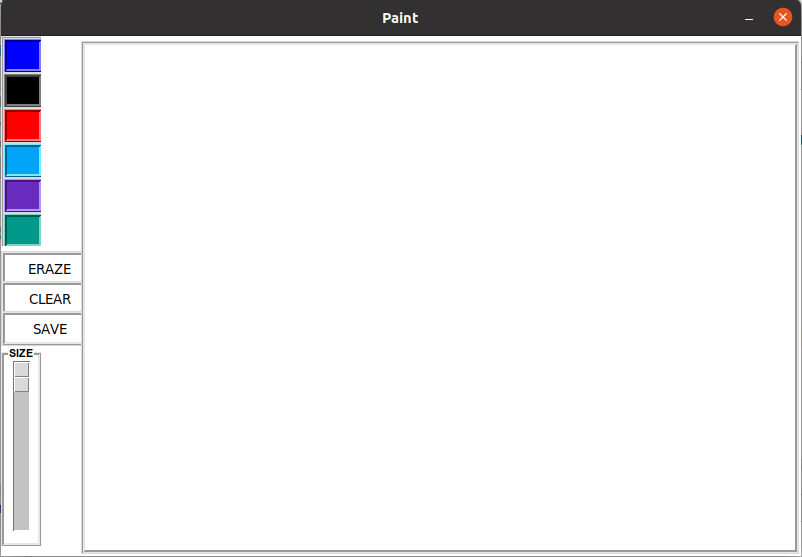
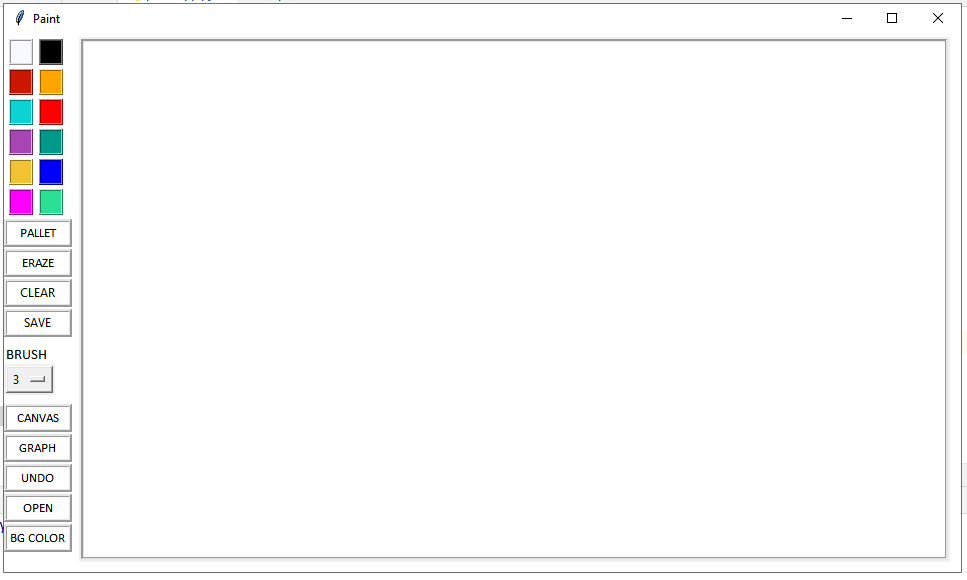
Add files via upload

Changed region(s): [[0.0, 0.0, 1.0, 1.0]]

diff --git a/paint_app.py b/paint_app.py
@@ -1,0 +1,234 @@
+import os
+from tkinter import *
+from tkinter import messagebox, colorchooser
+from tkinter.filedialog import asksaveasfilename,askopenfilename
+import pyscreenshot as ImageGrab
+from PIL import ImageTk,Image
+
+
+class Color_Button(Button):#Inherited custom made color button , with default command to change colour of pen
+    def __init__(self,color):
+        self.color=color
+        super().__init__(bg=color,relief=RIDGE,width=2,height=1,bd=2,command=self.on_click)
+    def on_click(self):
+        program.color_fg=self.color
+
+class main:
+    def __init__(self, master):
+        self.root = master
+        self.root.title("PAINT")
+        screen_width = root.winfo_screenwidth()
+        screen_height = root.winfo_screenheight()
+        self.root.geometry(f"{screen_width-int(screen_width*0.3)}x{screen_height-int(screen_height*0.3)}")
+        self.color_fg = 'black'  # Colour of pen
+        self.color_bg = 'white'  # Background colour
+        self.root.configure(background='white')
+
+        self.undo = open('undo.rec', 'w')
+
+
+        # making colour buttons
+        colors = ['#F8F8FF', '#cc1701','#0bd3d3','#a845b5', '#f1c232' , '#FF00FF']
+        i=5;j=5#For Location
+        for color in colors:
+            Color_Button(color).place(x=i,y=j)#Refer class Color_Button
+            j+=30
+        colors = [ 'black', '#ffa500','red' ,'#009888', 'blue','#2bdf94']
+        i=35;j=5
+        for color in colors:
+            Color_Button(color).place(x=i,y=j)
+            j+=30
+
+        # making other buttons and placing them in appropriate place
+        self.Pallet_For_Foreground = Button(self.root, text='PALLET', font=('calibri', 10), bd=3, bg='white', command=self.choose_color,width=8, relief=RIDGE)
+        self.Pallet_For_Foreground.place(x=0,y=185)
+
+
+        self.erazer_button = Button(self.root, text='ERAZE', font=('calibri', 10), bd=3, bg='white', command=self.eraze,width=8, relief=RIDGE)
+        self.erazer_button.place(x=0, y=215)
+
+        self.clear_button = Button(self.root, text='CLEAR', bd=3, bg='white', command=self.clear, width=8, relief=RIDGE)
+        self.clear_button.place(x=0, y=245)
+
+        self.save_button = Button(self.root, text='SAVE', bd=3, bg='white', command=self.save, width=8, relief=RIDGE)
+        self.save_button.place(x=0, y=275)
+
+        self.Brush_Text = Label(self.root, text='BRUSH', bd=0, bg='white', font=('calibri', 11))
+        self.Brush_Text.place(x=1, y=310)
+
+
+
+        self.options = StringVar(self.root)
+        self.options.set('3')#Default option
+        self.size_chooser = OptionMenu(self.root, self.options, *( str(x) for x in range(10)))
+        self.size_chooser.place(x=0, y=330)
+
+
+        self.change_canvas_button=Button(self.root,text='CANVAS',font=('calibri', 10), bd=3,width=8, bg='white',command=self.change_canvas, relief=RIDGE)
+        self.change_canvas_button.place(x=0, y=370)
+
+        self.graph_button =Button(self.root,text='GRAPH',font=('calibri', 10), bd=3,width=8, bg='white',command=self.graph, relief=RIDGE)
+        self.graph_button.place(x=0, y=400)
+
+        self.undo_button = Button(self.root, text='UNDO', font=('calibri', 10), bd=3,width=8, bg='white',command=self.undo_exec, relief=RIDGE)
+        self.undo_button.place(x=0, y=430)
+
+        self.open_button=Button(self.root,text="OPEN" ,font=('calibri', 10), bd=3,width=8, bg='white',command=self.open, relief=RIDGE)
+        self.open_button.place(x=0, y=460)
+
+
+        self.Background_Button = Button(self.root, text='BG COLOR', font=('calibri', 10),bd=3, bg='white', command=self.change_bg, width=8, relief=RIDGE)
+        self.Background_Button.place(x=0, y=490)
+
+        # making the canvas and making it recognise movements of the mouse
+
+        self.canvas = Canvas(self.root, bg='white', bd=3, relief=GROOVE, height=(screen_height-int(screen_height*0.33)), width=(screen_width-int(screen_width*0.37)))
+        self.canvas.place(x=75, y=3)
+
+        self.old_x = None
+        self.old_y = None
+        self.penwidth = 3
+        self.tag = 0
+        self.canvas.bind('<B1-Motion>', self.paint)  # drawing  line
+        self.canvas.bind('<ButtonRelease-1>', self.reset)
+
+
+    # All functions are defined below
+    def paint(self, e):
+        '''creates a canvas where you can paint'''
+
+        if self.old_x and self.old_y:
+
+            self.canvas.create_line(self.old_x, self.old_y, e.x, e.y,
+                                    width=self.options.get(),
+                                    fill=self.color_fg,
+                                    capstyle=ROUND,
+                                    smooth=True,
+                                    tag='my_tag' + str(self.tag))
+        self.old_x = e.x
+        self.old_y = e.y
+
+    def reset(self, e):
+        '''reseting or cleaning the canvas'''
+        self.old_x = None
+        self.old_y = None
+
+        self.canvas.create_oval(e.x, e.y, e.x, e.y,
+                                width=self.options.get(),
+                                outline=self.color_fg,
+                                fill=self.color_fg,
+                                tag='my_tag' + str(self.tag))
+        self.undo.write(f"self.canvas.delete('{'my_tag' + str(self.tag)}')\n")
+        self.tag += 1
+
+    def clear(self):
+        '''clears the canvas'''
+        self.canvas.delete(ALL)
+
+    def eraze(self):
+        '''erazing stuff simply by changing colour of the brush to white'''
+        self.undo.write(f"self.color_fg='{self.color_fg}'\n")
+        self.undo.write(f"self.options.set({self.options.get()})\n")
+        self.color_fg = 'white'
+        self.options.set('20')
+
+    def undo_exec(self):
+        self.undo.close()
+        # Find last line and execute it
+        file = open("copy.txt", 'w')
+        with open("undo.rec", 'r') as undo:
+            length = sum(1 for x in undo)
+        with open("undo.rec", 'r') as undo:
+            count = 0
+            for line in undo:
+                count += 1
+                if count != length:
+                    file.write(line)
+                pass
+        file.close()
+        os.replace(r'copy.txt', r'undo.rec')
+        try:
+            command = line
+            exec(command)
+
+        except UnboundLocalError:
+            pass
+        self.undo = open("undo.rec", 'a')
+
+    def save(self):
+        # Asking format
+        filename: str = asksaveasfilename(initialdir="/Desktop", title="Select file", filetypes=(
+            ('JPEG', '*.jpg'), ('PNG', '*.png'), ('PS', '*.ps'),
+            ('BMP', '*.bmp'),
+            ('GIF', '*.gif')),defaultextension=".jpg")
+        print(filename)
+        if filename.endswith('.ps'):
+            # Saving a postscript file
+            try:
+                self.canvas.postscript(file=filename, colormode='color')
+                messagebox.showinfo('File saved : ', str(filename))
+            except:
+                print('No file saved')
+
+        else:
+            try:
+                # Making values for a screenshort
+                x = self.root.winfo_rootx() + self.canvas.winfo_x()
+                y = self.root.winfo_rooty() + self.canvas.winfo_y()
+                x1 = x + self.canvas.winfo_width()
+                y1 = y + self.canvas.winfo_height()
+                screenshort = ImageGrab.grab().crop((x, y, x1, y1))
+                screenshort.save(filename)
+                messagebox.showinfo('File saved : ', str(filename))
+            except:
+                print('Error Saving File')
+
+    def open(self):
+        file_chosen=askopenfilename(initialdir="/Desktop", title="Select file", filetypes=(
+            ('JPEG', '*.jpg'), ('PNG', '*.png'), ('PS', '*.ps'),
+            ('BMP', '*.bmp'),
+            ('GIF', '*.gif')),defaultextension=".jpg")
+        try:
+            self.img = ImageTk.PhotoImage(Image.open(file_chosen))
+            self.canvas.create_image(0,0, anchor=NW, image=self.img)
+        except:
+            return()
+
+    def choose_color(self):
+        # variable to store hexadecimal code of color
+        self.undo.write(f"self.color_fg='{self.color_fg}'\n")
+        color_code = colorchooser.askcolor(title="Choose color")
+        self.color_fg=color_code[1]#colour_code[1] is hex value of chose color. color_code[0] is rgb value of chosen color
+
+    def change_bg(self):
+        self.undo.write(f"self.canvas['bg']='{self.color_bg}'\n")
+        color_code = colorchooser.askcolor(title="Choose Color")
+        self.canvas['bg'] = color_code[1]
+
+    def change_canvas(self):
+        if self.root.winfo_width() != 1366:
+            self.canvas['width'] = root.winfo_screenwidth()-int(root.winfo_screenwidth()*0.37)
+            self.canvas['height']=root.winfo_screenheight()-int(root.winfo_screenheight()*0.33)
+        else:
+            self.canvas['height']=self.root.winfo_height()-20
+            self.canvas['width']=self.root.winfo_width()-100
+
+    def graph(self):
+        try:
+            MsgBox = messagebox.askyesnocancel(title='Graph',message='YES for Ruled Graph and No for Unruled Graph')
+            if MsgBox:
+                self.img = ImageTk.PhotoImage(Image.open('graph_ruled.png'))
+                self.canvas.create_image(30, 20, anchor=NW, image=self.img)
+            else:
+                self.img = ImageTk.PhotoImage(Image.open('graph_unruled.png'))
+                self.canvas.create_image(-100, 0, anchor=NW, image=self.img)
+
+        except:
+            messagebox.showwarning("That isn't working")
+
+if __name__ == '__main__':
+    #For Activating
+    root = Tk()
+    program=main(root)
+    root.title('Paint')
+    root.mainloop()
